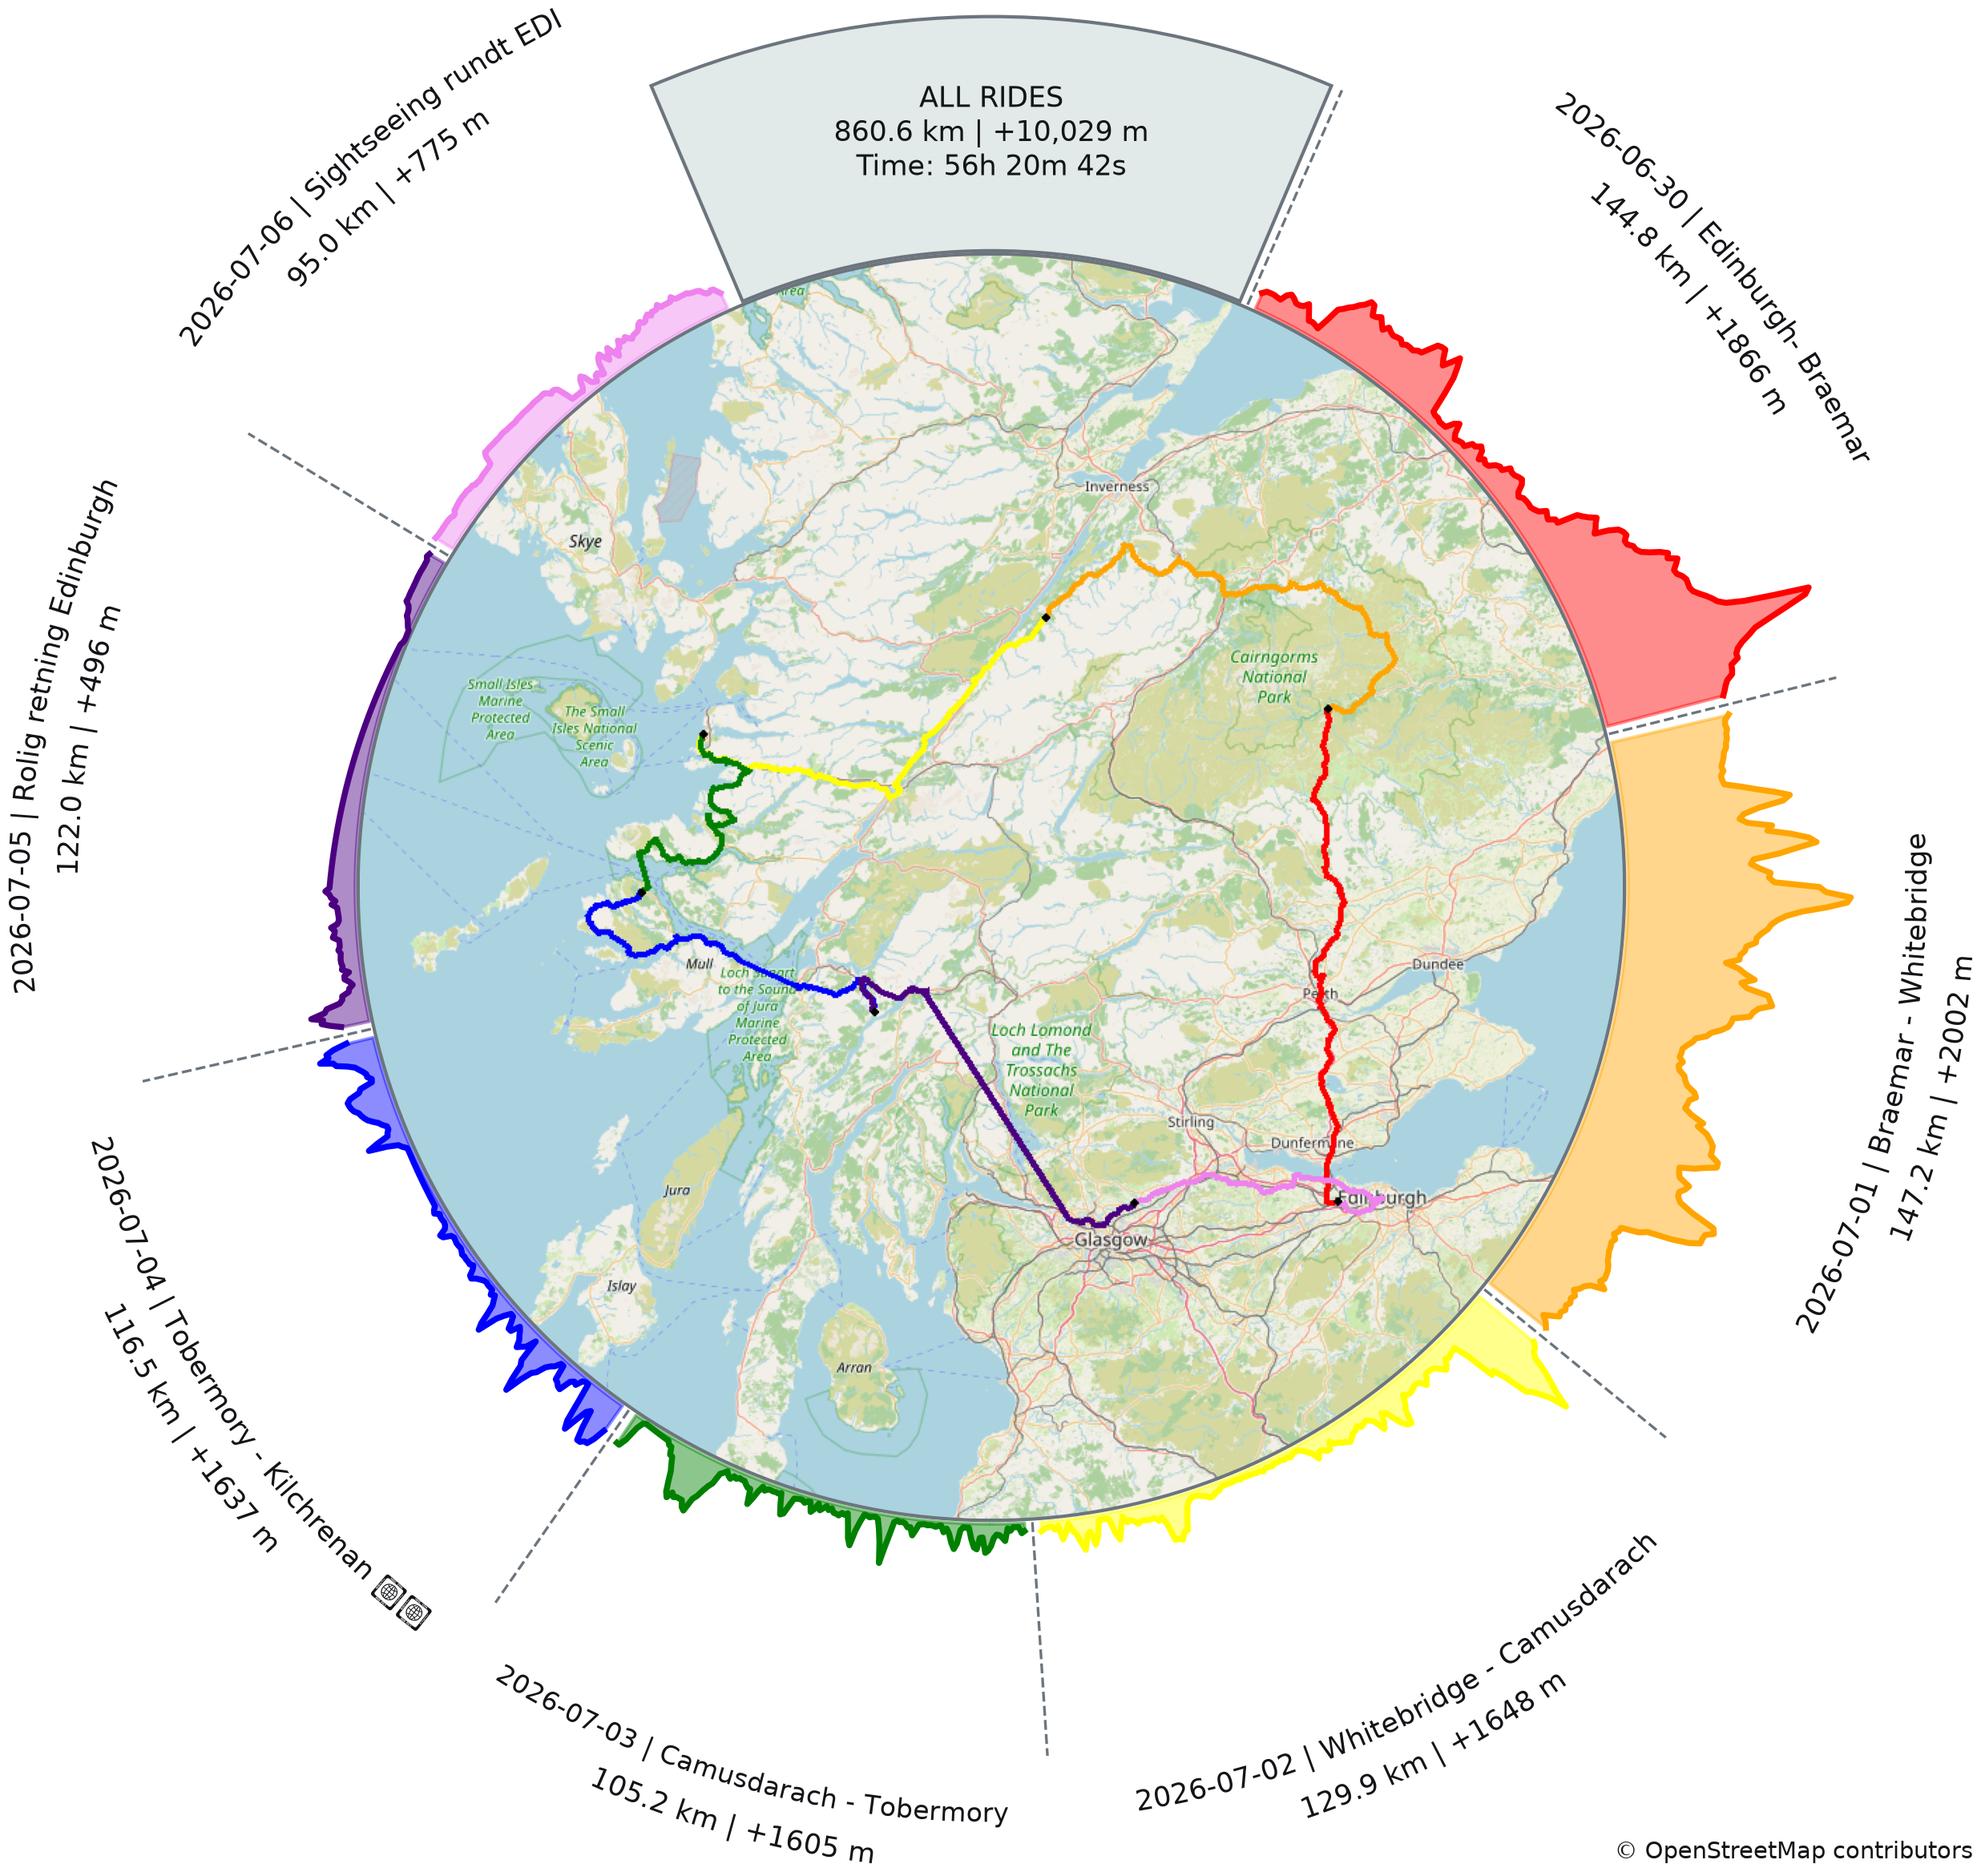
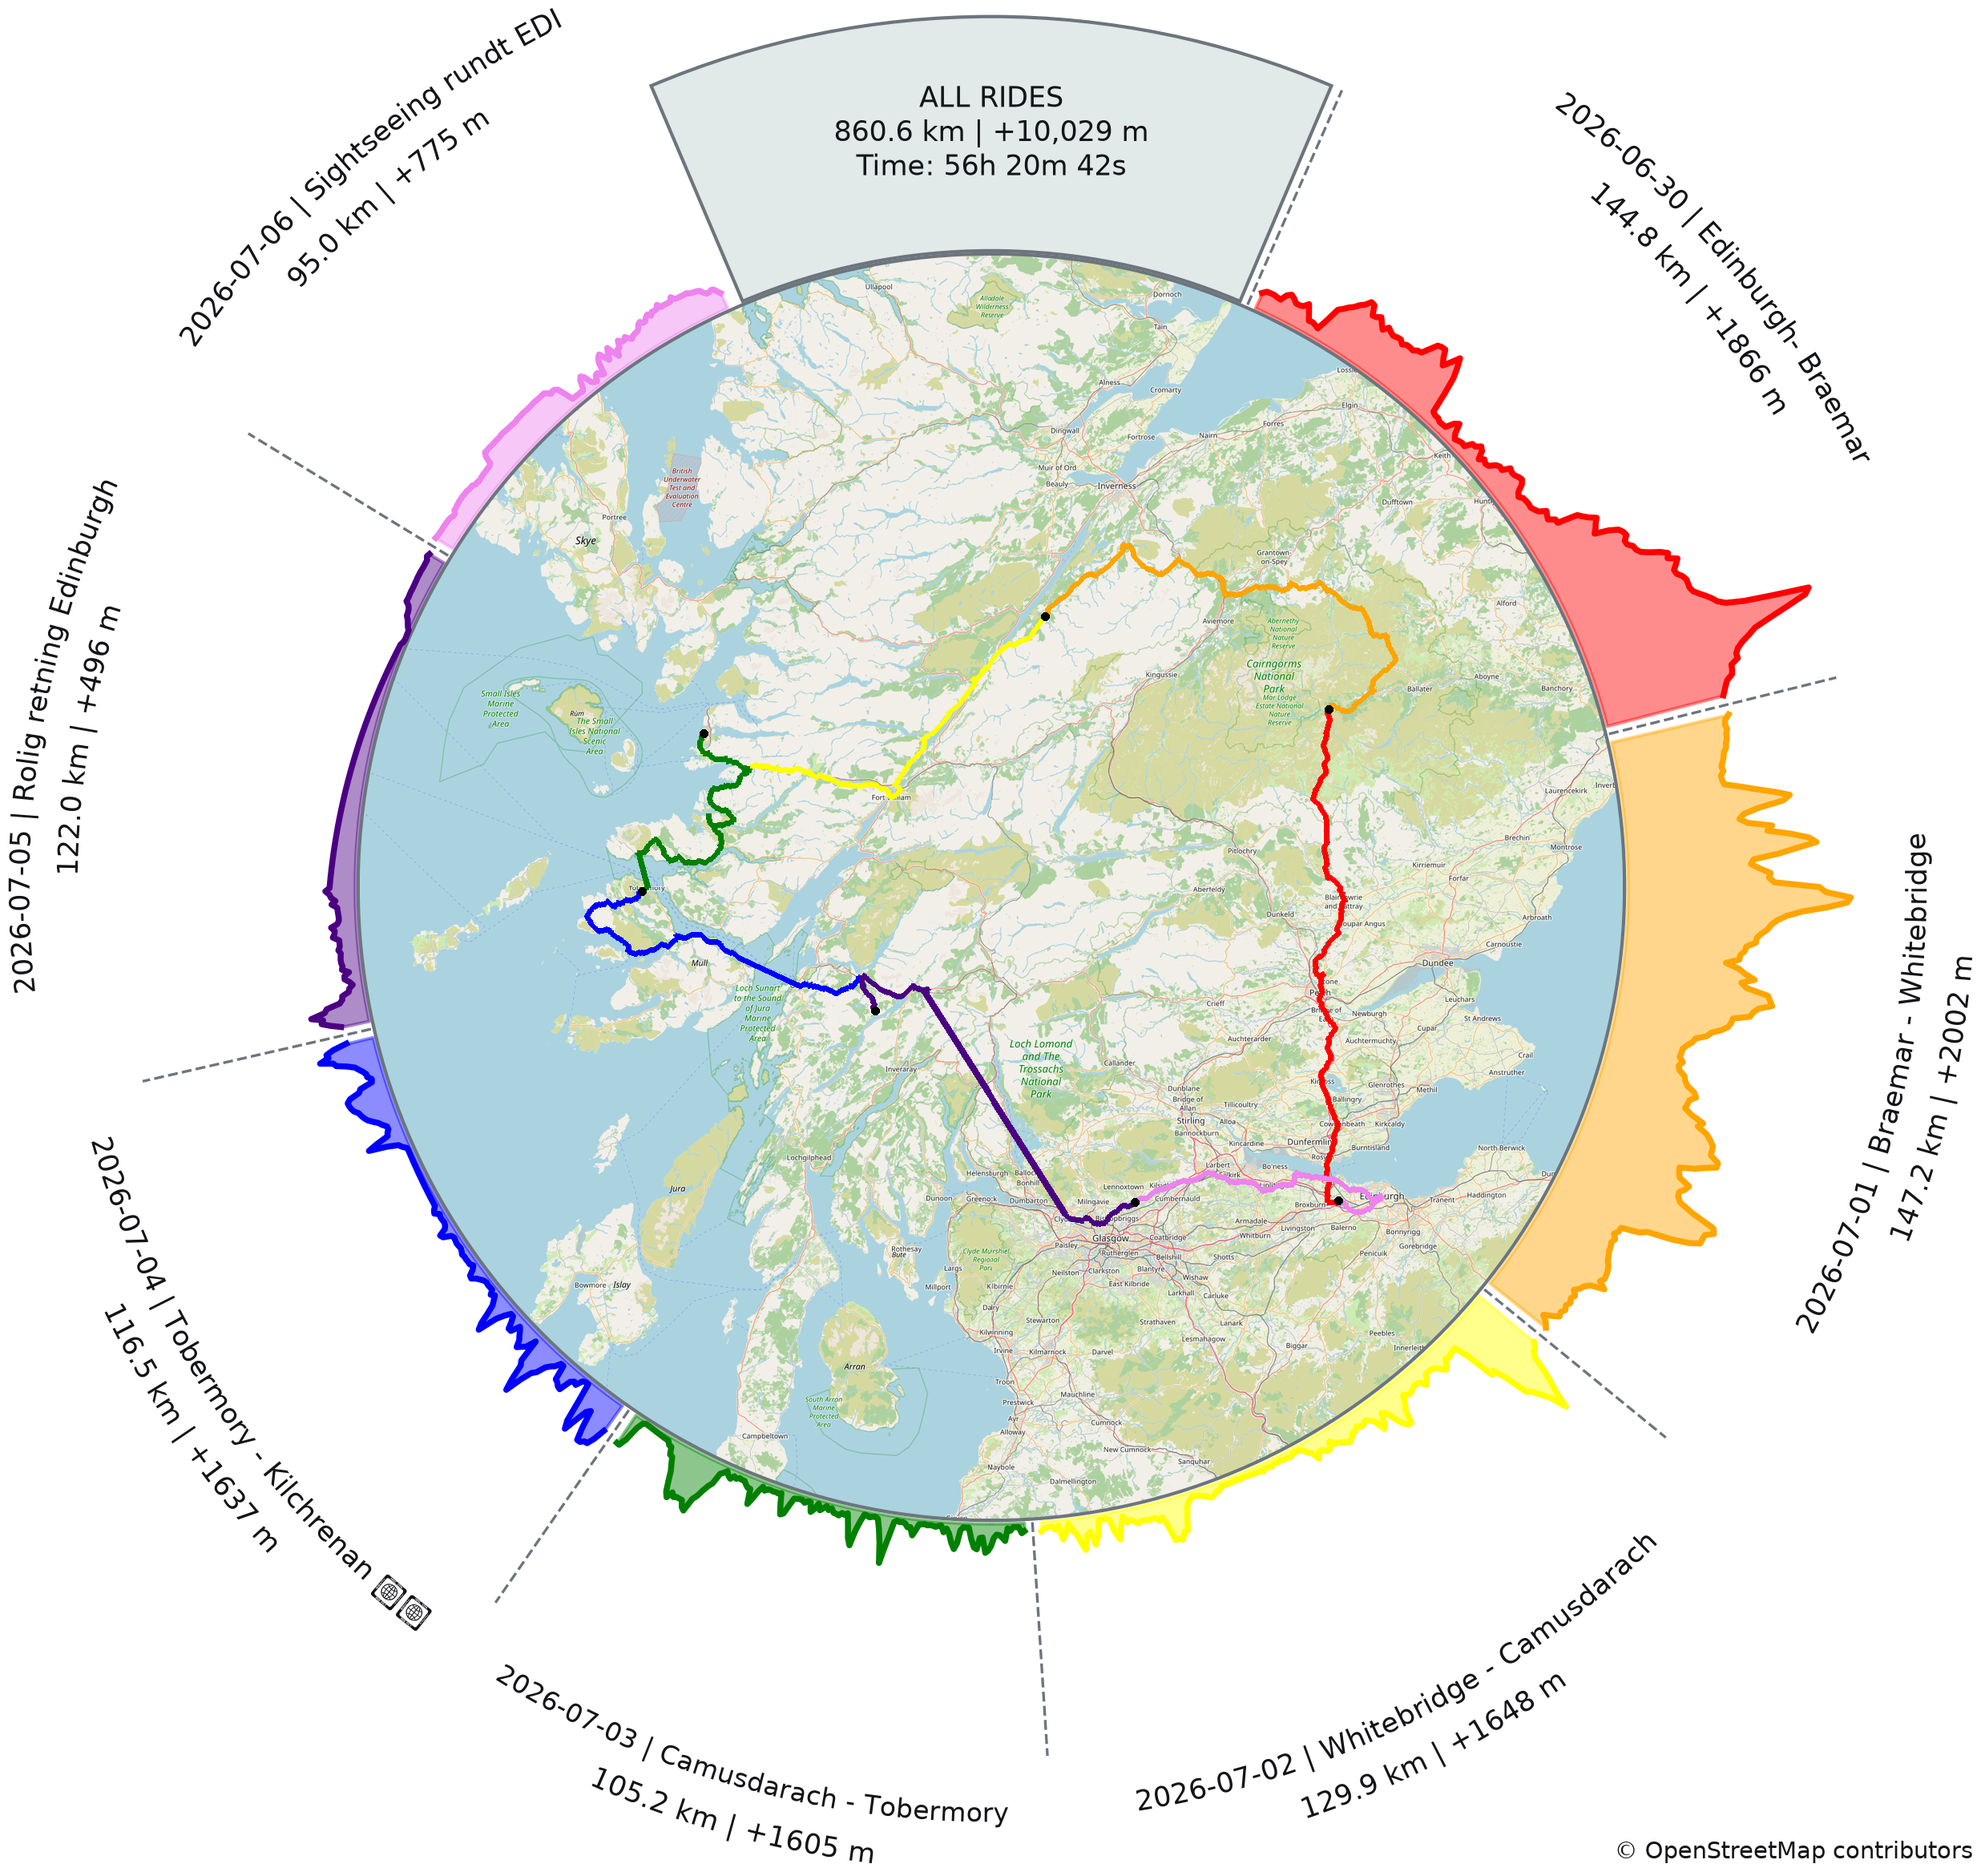
High rez mapping

Changed region(s): [[0.218, 0.1562, 0.8099, 0.8125]]

diff --git a/src/generate-wheel.py b/src/generate-wheel.py
@@ -87,7 +87,7 @@ def parse_gpx_folder(folder_path):
     activities.sort(key=lambda x: x["sort_key"])
     return activities, all_lats, all_lons
 
-def fetch_center_map(activities, size_px=800):
+def fetch_center_map(activities, size_px=800, output_px=None):
     all_lons = [pt[0] for act in activities for pt in act["coords"]]
     all_lats = [pt[1] for act in activities for pt in act["coords"]]
     
@@ -112,47 +112,53 @@ def fetch_center_map(activities, size_px=800):
             zoom = z
             break
 
+    output_px = size_px if output_px is None else output_px
+    zoom_increase = min(max(0, math.ceil(math.log2(output_px / size_px))), 19 - zoom)
+    zoom += zoom_increase
+    source_size = size_px * 2 ** zoom_increase
     cx, cy = deg2num(center_lat, center_lon, zoom)
-    tiles_radius = math.ceil(size_px / 512) + 1
-    cx_int, cy_int = int(cx), int(cy)
-
-    canvas_tiles = (tiles_radius * 2 + 1) * 256
-    canvas = Image.new("RGB", (canvas_tiles, canvas_tiles), (24, 27, 32))
+    left = math.floor(cx * 256 - source_size / 2)
+    top = math.floor(cy * 256 - source_size / 2)
+    first_x, first_y = left // 256, top // 256
+    last_x = (left + source_size - 1) // 256
+    last_y = (top + source_size - 1) // 256
+    canvas = Image.new("RGB", ((last_x - first_x + 1) * 256, (last_y - first_y + 1) * 256))
     headers = {"User-Agent": "GPXActivityWheel/1.0 (local-script)"}
 
-    for dx in range(-tiles_radius, tiles_radius + 1):
-        for dy in range(-tiles_radius, tiles_radius + 1):
-            tx, ty = cx_int + dx, cy_int + dy
+    for tx in range(first_x, last_x + 1):
+        for ty in range(first_y, last_y + 1):
             url = f"https://tile.openstreetmap.org/{zoom}/{tx}/{ty}.png"
             resp = requests.get(url, headers=headers, timeout=10)
             resp.raise_for_status()
             tile = Image.open(io.BytesIO(resp.content)).convert("RGB")
-            canvas.paste(tile, ((dx + tiles_radius) * 256, (dy + tiles_radius) * 256))
+            canvas.paste(tile, ((tx - first_x) * 256, (ty - first_y) * 256))
 
-    # Crop centered on the bounding box midpoint
-    center_px_x = (tiles_radius + (cx - cx_int)) * 256
-    center_px_y = (tiles_radius + (cy - cy_int)) * 256
-    left = int(center_px_x - size_px / 2)
-    top = int(center_px_y - size_px / 2)
-    cropped = canvas.crop((left, top, left + size_px, top + size_px))
+    crop_left, crop_top = left - first_x * 256, top - first_y * 256
+    cropped = canvas.crop((crop_left, crop_top, crop_left + source_size, crop_top + source_size))
+    if source_size != output_px:
+        cropped = cropped.resize((output_px, output_px), Image.Resampling.LANCZOS)
 
     # Draw GPX tracks onto the cropped map
     draw = ImageDraw.Draw(cropped)
+    pixel_scale = output_px / source_size
+    route_width = max(1, round(4 * output_px / size_px))
+    dot_size = max(route_width + 1, round(6 * output_px / size_px))
     endpoints = []
     for act in activities:
         pts = []
         for lon, lat in act["coords"]:
             tx, ty = deg2num(lat, lon, zoom)
-            px = (tiles_radius + (tx - cx_int)) * 256 - left
-            py = (tiles_radius + (ty - cy_int)) * 256 - top
+            px = (tx * 256 - left) * pixel_scale
+            py = (ty * 256 - top) * pixel_scale
             pts.append((px, py))
         if len(pts) > 1:
-            draw.line(pts, fill=act["color"], width=4)
+            draw.line(pts, fill=act["color"], width=route_width)
         endpoints.extend(pts[index] for index in act["track_end_indices"])
 
     for px, py in endpoints:
-        x, y = round(px), round(py)
-        draw.ellipse((x - 3, y - 3, x + 2, y + 2), fill="black")
+        x = round(px - (dot_size - 1) / 2)
+        y = round(py - (dot_size - 1) / 2)
+        draw.ellipse((x, y, x + dot_size - 1, y + dot_size - 1), fill="black")
 
     return np.array(cropped)
 
@@ -203,10 +209,7 @@ def create_activity_wheel(gpx_folder, output_file=None, background="dark", trans
             day_colors[act["date"]] = DAY_COLORS[len(day_colors) % len(DAY_COLORS)]
         act["color"] = day_colors[act["date"]]
 
-    # 1. Fetch OpenStreetMap image with routes overlaid
-    map_img = fetch_center_map(activities, size_px=900)
-
-    # 2. Setup figure and polar axis
+    # 1. Setup figure and polar axis
     dark = background == "dark" or (background == "transparent" and transparent_theme == "dark")
     background_color = "#121417" if background == "dark" else ("white" if background == "white" else "none")
     text_color = "#e0e6ed" if dark else "#121417"
@@ -226,7 +229,7 @@ def create_activity_wheel(gpx_folder, output_file=None, background="dark", trans
     R_LABEL = 1.54       # Radius of the inner label line
     R_MAP = R_ELE_BASE - 6 * ax.get_rmax() / (ax.bbox.height / 2)
 
-    # 3. Embed circular map in the center using a standard Cartesian overlay axis
+    # 2. Embed circular map in the center using a standard Cartesian overlay axis
     polar_bounds = ax.get_position()
     map_fraction = R_MAP / ax.get_rmax()
     map_width = polar_bounds.width * map_fraction
@@ -237,7 +240,14 @@ def create_activity_wheel(gpx_folder, output_file=None, background="dark", trans
         map_width, map_height,
     ], zorder=10)
     ax_map.axis("off")
-    im = ax_map.imshow(map_img)
+    map_pixels = math.ceil(ax_map.bbox.width)
+    map_img = None
+    try:
+        map_img = fetch_center_map(activities, size_px=900, output_px=map_pixels)
+    finally:
+        if map_img is None:
+            plt.close(fig)
+    im = ax_map.imshow(map_img, interpolation="nearest")
     
     # Clip the square map image into a circle
     patch = Circle((0.5, 0.5), radius=0.5, transform=ax_map.transAxes)
@@ -246,7 +256,7 @@ def create_activity_wheel(gpx_folder, output_file=None, background="dark", trans
     border_theta = np.linspace(0, 2 * np.pi, 300)
     ax.plot(border_theta, np.full_like(border_theta, R_MAP), color=border_color, lw=2)
 
-    # 4. Normalize elevations globally across all rides
+    # 3. Normalize elevations globally across all rides
     all_eles = np.concatenate([a["elevations"] for a in activities])
     min_ele, max_ele = np.min(all_eles), np.max(all_eles)
     ele_span = max(max_ele - min_ele, 1.0)

diff --git a/tests/test_wheel_layout.py b/tests/test_wheel_layout.py
@@ -22,9 +22,76 @@ spec.loader.exec_module(wheel)
 
 
 class WheelLayoutTests(unittest.TestCase):
+    def test_map_fetch_error_closes_figure(self):
+        activity = {
+            "date": "2026-01-01", "name": "Ride", "coords": [(0, 0), (1, 1)],
+            "elevations": np.array([0, 1]), "distance_km": 1,
+            "elev_gain_m": 1, "duration_s": None,
+        }
+        open_figures = set(wheel.plt.get_fignums())
+        with tempfile.TemporaryDirectory() as folder, \
+             patch.object(wheel, "parse_gpx_folder", return_value=([activity], [], [])), \
+             patch.object(wheel, "fetch_center_map", side_effect=wheel.requests.Timeout("tile timeout")):
+            with self.assertRaisesRegex(wheel.requests.Timeout, "tile timeout"):
+                wheel.create_activity_wheel(folder)
+        self.assertEqual(set(wheel.plt.get_fignums()), open_figures)
+
+    def test_map_pixels_match_final_rendered_size(self):
+        activity = {
+            "date": "2026-01-01", "name": "Ride", "coords": [(0, 0), (1, 1)],
+            "elevations": np.array([0, 1]), "distance_km": 1,
+            "elev_gain_m": 1, "duration_s": None,
+        }
+
+        def fake_map(activities, size_px=800, output_px=None):
+            size = output_px if output_px is not None else size_px
+            return np.zeros((size, size, 3), dtype=np.uint8)
+
+        def verify_map(figure, *args, **kwargs):
+            figure.canvas.draw()
+            axis = figure.axes[1]
+            image = axis.images[0].get_array()
+            bounds = axis.get_window_extent()
+            self.assertAlmostEqual(image.shape[1], bounds.width, delta=1)
+            self.assertAlmostEqual(image.shape[0], bounds.height, delta=1)
+
+        with tempfile.TemporaryDirectory() as folder, \
+             patch.object(wheel, "parse_gpx_folder", return_value=([activity], [], [])), \
+             patch.object(wheel, "fetch_center_map", side_effect=fake_map), \
+             patch.object(Figure, "savefig", verify_map), \
+             contextlib.redirect_stdout(io.StringIO()):
+            wheel.create_activity_wheel(folder)
+
+    def test_higher_resolution_preserves_map_extent_and_route_positions(self):
+        activity = {
+            "coords": [(0.0, 51.0), (0.03, 51.01)],
+            "track_end_indices": [1], "color": "red",
+        }
+        with io.BytesIO() as data:
+            Image.new("RGB", (256, 256), "white").save(data, format="PNG")
+            response = Response()
+            response.status_code = 200
+            response._content = data.getvalue()
+        line = ImageDraw.ImageDraw.line
+        with patch.object(wheel.requests, "get", return_value=response) as requests, \
+             patch.object(ImageDraw.ImageDraw, "line", autospec=True, side_effect=line) as lines:
+            base = wheel.fetch_center_map([activity], size_px=900)
+            base_zoom = int(requests.call_args.args[0].split("/")[-3])
+            base_points = np.array(lines.call_args.args[1])
+            requests.reset_mock()
+            high_res = wheel.fetch_center_map([activity], size_px=900, output_px=1576)
+            high_zoom = int(requests.call_args.args[0].split("/")[-3])
+            high_points = np.array(lines.call_args.args[1])
+
+        self.assertEqual(base.shape, (900, 900, 3))
+        self.assertEqual(high_res.shape, (1576, 1576, 3))
+        self.assertEqual(high_zoom, base_zoom + 1)
+        np.testing.assert_allclose(base_points / 900, high_points / 1576, atol=1 / 900)
+
     def test_daily_route_colors_match_elevations_and_mark_track_ends(self):
         days = [0, 0, 1, 2, 3, 4, 5, 6, 7]
         colors = ["red", "red", "orange", "yellow", "green", "blue", "indigo", "violet", "red"]
+        map_sizes = []
         tracks = []
         for index, day in enumerate(days):
             point = f"<trkpt lat='51.0' lon='{index / 100}'><time>2026-01-{day + 1:02d}T12:00:00Z</time></trkpt>"
@@ -49,6 +116,7 @@ class WheelLayoutTests(unittest.TestCase):
             for collection, line in zip(polar.collections, elevation_lines):
                 np.testing.assert_allclose(collection.get_facecolor()[0][:3], to_rgb(line.get_color()))
             map_pixels = figure.axes[1].images[0].get_array()
+            map_sizes.append(map_pixels.shape[0])
             for call in dots.call_args_list:
                 left, top, right, bottom = call.args[1]
                 x, y = (left + right + 1) // 2, (top + bottom + 1) // 2
@@ -72,13 +140,15 @@ class WheelLayoutTests(unittest.TestCase):
         line_calls = lines.call_args_list
         self.assertEqual([call.kwargs["fill"] for call in line_calls],
                          [color for index, color in enumerate(colors) if index != 2])
-        self.assertTrue(all(call.kwargs["width"] == 4 for call in line_calls))
+        route_width = round(4 * map_sizes[0] / 900)
+        dot_size = round(6 * map_sizes[0] / 900)
+        self.assertTrue(all(call.kwargs["width"] == route_width for call in line_calls))
         self.assertEqual(len(dots.call_args_list), len(days) + 1)
         first_line_points = line_calls[0].args[1]
         for call, point in zip(dots.call_args_list[:2], [first_line_points[1], first_line_points[-1]]):
             left, top, right, bottom = call.args[1]
             self.assertEqual(call.kwargs["fill"], "black")
-            self.assertEqual((right - left + 1, bottom - top + 1), (6, 6))
+            self.assertEqual((right - left + 1, bottom - top + 1), (dot_size, dot_size))
             self.assertAlmostEqual((left + right) / 2, point[0], delta=1)
             self.assertAlmostEqual((top + bottom) / 2, point[1], delta=1)
 

diff --git a/README.md b/README.md
@@ -20,6 +20,8 @@ red, orange, yellow, green, blue, indigo, and violet. Rides with the same
 displayed date use the same color. When a ride has no recorded start time, its
 displayed date uses the first 10 characters of its filename. Black dots mark
 the end of each GPX track.
+The map uses higher-detail tiles and is rendered at the output resolution
+while retaining the same geographic coverage.
 
 ## Example output
 
